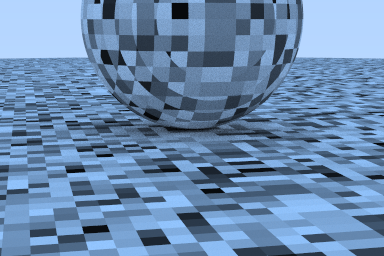
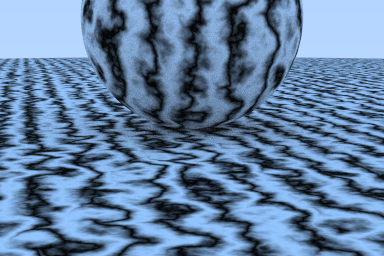
Added perlin turbulence marble texture generation.

diff --git a/src/raytrace/perlin.h b/src/raytrace/perlin.h
@@ -1,6 +1,6 @@
 #pragma once
 
-/// \file raytrace/perlinNoise.h
+/// \file raytrace/perlin.h
 ///
 /// Perlin noise generation.
 
@@ -9,6 +9,7 @@
 #include <gm/types/floatRange.h>
 #include <gm/types/intRange.h>
 
+#include <gm/functions/abs.h>
 #include <gm/functions/dotProduct.h>
 #include <gm/functions/floor.h>
 #include <gm/functions/normalize.h>
@@ -20,15 +21,15 @@
 
 RAYTRACE_NS_OPEN
 
-/// \class PerlinNoise
+/// \class Perlin
 ///
 /// Random noise generator, taking input 3D vectors and producing a
 /// scalar value between 0 and 1.
-class PerlinNoise
+class Perlin
 {
 public:
     /// Default constructor, which computes the initial values for noise generation.
-    PerlinNoise()
+    Perlin()
     {
         // Generate a sequence of random floats between 0 and 1.
         for ( int valueIndex = 0; valueIndex < c_valueCount; ++valueIndex )
@@ -44,12 +45,31 @@ public:
         _GeneratePermutation( m_permutationZ );
     }
 
+    /// Generate turbulence, which is an accumulated composite noise pattern.
+    float Turbulence( const gm::Vec3f& i_coord, int depth = 7 ) const
+    {
+        float     accumulation = 0.0f;
+        float     weight       = 1.0f;
+        gm::Vec3f coordinate   = i_coord;
+
+        for ( int depthIndex = 0; depthIndex < depth; ++depthIndex )
+        {
+            accumulation += weight * Noise( coordinate );
+
+            // Transform weight and coordinate.
+            weight *= 0.5;
+            coordinate *= 2;
+        }
+
+        return gm::Abs( accumulation );
+    }
+
     /// Generate a random floating point value between 0, 1 using the perlin noise generator.
     ///
     /// \param i_coord The input 3D coordinate.
     ///
     /// \return The random generated value.
-    float Generate( const gm::Vec3f& i_coord ) const
+    float Noise( const gm::Vec3f& i_coord ) const
     {
         gm::Vec3f floored = gm::Floor( i_coord );
         gm::Vec3f weights = i_coord - floored;

diff --git a/src/raytrace/noiseTexture.h b/src/raytrace/noiseTexture.h
@@ -4,7 +4,7 @@
 ///
 /// A texture providing a noise pattern.
 
-#include <raytrace/perlinNoise.h>
+#include <raytrace/perlin.h>
 #include <raytrace/texture.h>
 
 RAYTRACE_NS_OPEN
@@ -23,12 +23,13 @@ public:
 
     inline virtual gm::Vec3f Sample( const gm::Vec2f& i_uvCoord, const gm::Vec3f& i_position ) const override
     {
-        return gm::Vec3f( 1, 1, 1 ) * 0.5 * ( 1.0 + m_generator.Generate( i_position * m_scale ) );
+        return gm::Vec3f( 1, 1, 1 ) * 0.5 *
+               ( 1.0 + sin( m_scale * i_position.Z() + 10 * m_perlin.Turbulence( i_position ) ) );
     }
 
 private:
-    PerlinNoise m_generator;
-    float       m_scale = 1.0f;
+    Perlin m_perlin;
+    float  m_scale = 1.0f;
 };
 
 RAYTRACE_NS_CLOSE

diff --git a/src/3_perlinNoise/main.cpp b/src/3_perlinNoise/main.cpp
@@ -209,7 +209,7 @@ void ShadePixel( const gm::Vec2i&                i_pixelCoord,
 /// \param o_sceneObjects Collection to populate with scene objects.
 void PopulateSceneObjects( const gm::FloatRange& i_shutterRange, raytrace::SceneObjectPtrs& o_sceneObjects )
 {
-    raytrace::TextureSharedPtr noiseTexture = std::make_shared< raytrace::NoiseTexture >( 10.0 );
+    raytrace::TextureSharedPtr noiseTexture = std::make_shared< raytrace::NoiseTexture >( 10.0f );
 
     o_sceneObjects.push_back(
         std::make_shared< raytrace::Sphere >( /* origin */ gm::Vec3f( 0, -1000, 0 ),

diff --git a/README.md b/README.md
@@ -72,7 +72,9 @@ In the image above, the ground plane is assigned a Lambert material with a Check
 
 ![Image](./src/3_perlinNoise/output.png)
 
-_Work in progress._
+Introduced a Perlin noise generator, for producing smooth noise.  
+
+By accumulating multiple layers of perlin noise applied to a sine function over the Z-coordinate, a marble-like texture is generated.
 
 [Source code](./src/3_perlinNoise/main.cpp)
 
